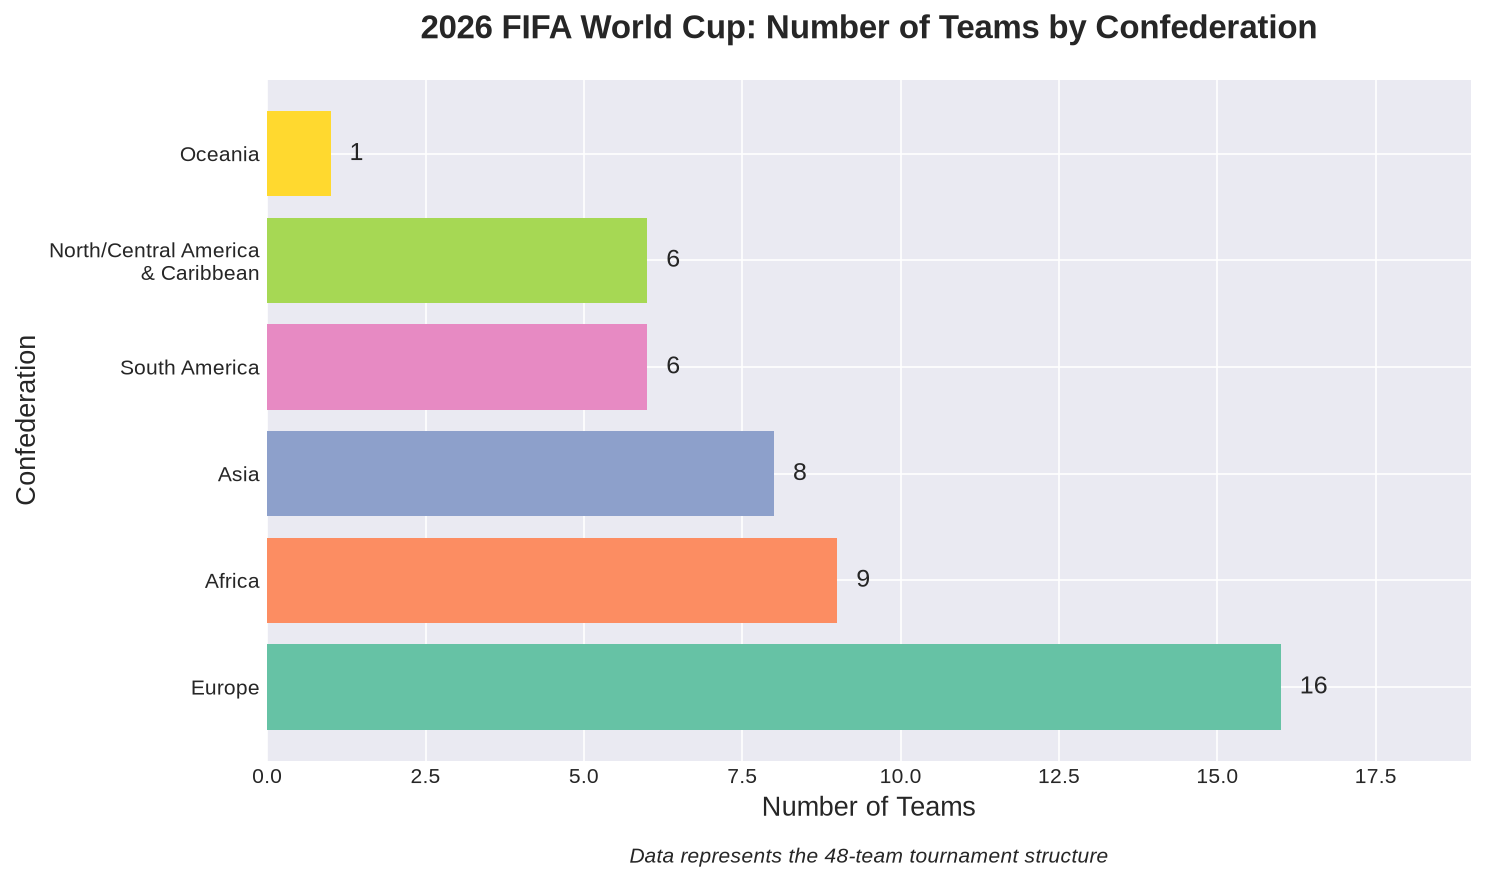
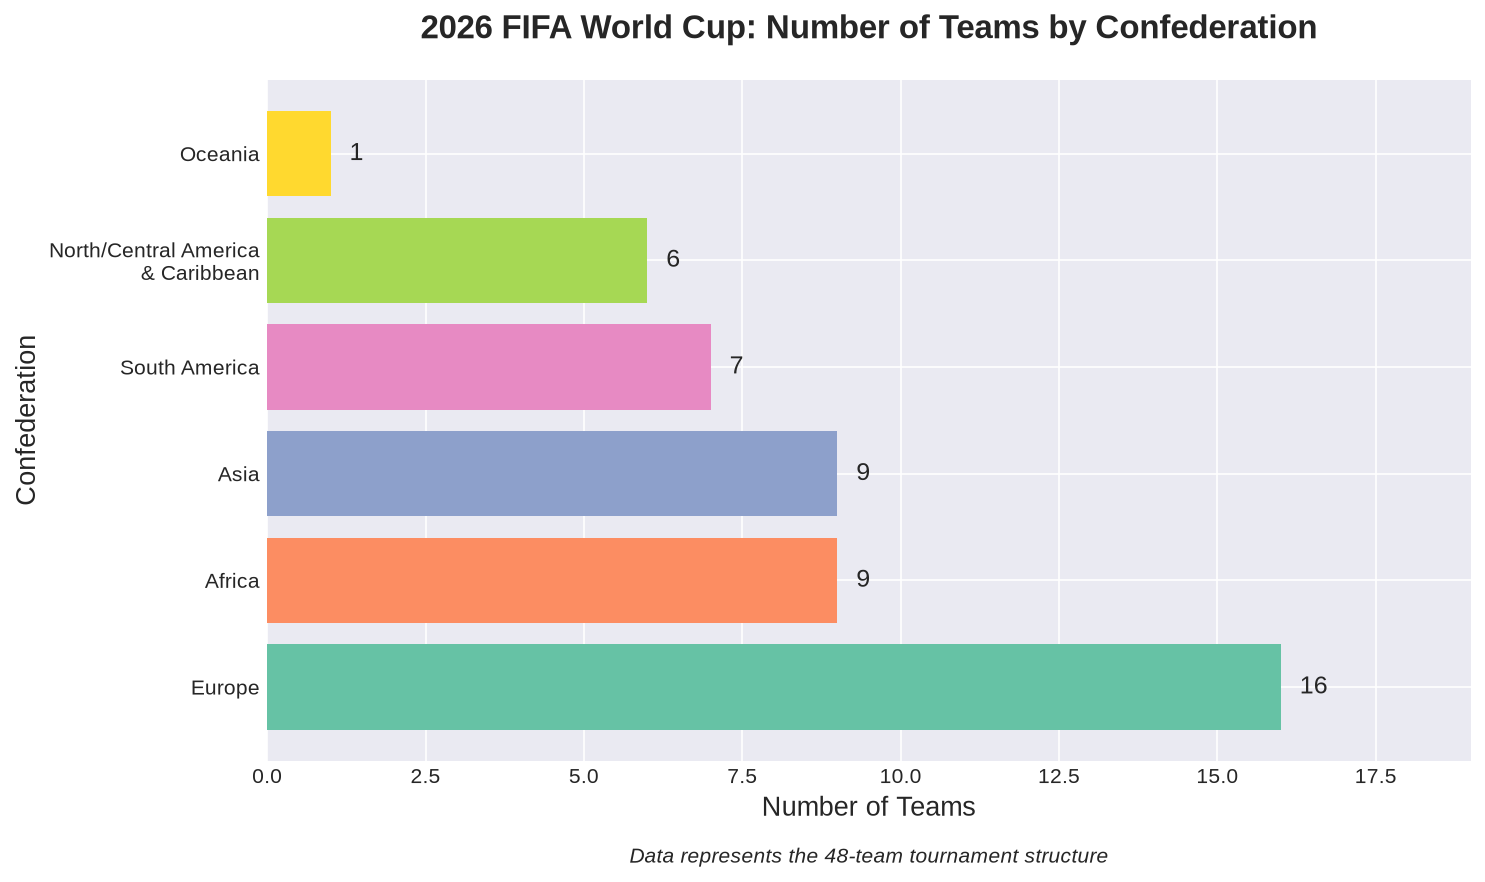
Fix team count to 48 and clarify 2024 FIFA ranking data

Changed region(s): [[0.4956, 0.4898, 0.5886, 0.6122], [0.4337, 0.3673, 0.4956, 0.4898]]

diff --git a/world_cup_analysis.md b/world_cup_analysis.md
@@ -24,12 +24,14 @@ library(countrycode)
 
 We'll scrape data from Wikipedia about the 2026 FIFA World Cup
 participating countries and combine it with FIFA rankings and
-confederation information.
+confederation information. The FIFA rankings used are from 2024
+(historical data for this 2026 analysis).
 
 ``` r
 # Since the 2026 World Cup qualification is ongoing, we'll create a dataset
 # based on the qualified teams and confederations
 # As of the data collection, we'll use the tournament structure information
+# Note: FIFA rankings are from 2024 (historical baseline data)
 
 # Create a dataset of participating confederations and their allocations
 world_cup_data <- tibble(
@@ -69,6 +71,8 @@ participating_countries <- tibble(
     "Egypt", "Cameroon", "Ghana", "Ivory Coast",
     # CONCACAF (additional) - 3 more slots
     "Costa Rica", "Jamaica", "Panama",
+    # Intercontinental playoff qualifiers - 2 slots
+    "United Arab Emirates", "Peru",
     # OFC (Oceania) - 1 slot
     "New Zealand"
   ),
@@ -79,6 +83,7 @@ participating_countries <- tibble(
     rep("AFC", 8),
     rep("CAF", 9),
     rep("CONCACAF", 3),
+    "AFC", "CONMEBOL",
     rep("OFC", 1)
   ),
   fifa_ranking_2024 = c(
@@ -94,6 +99,8 @@ participating_countries <- tibble(
     20, 13, 28, 32, 42, 36, 51, 58, 39,
     # CONCACAF additional
     52, 54, 50,
+    # Playoff qualifiers
+    68, 31,
     # OFC
     95
   ),
@@ -110,6 +117,8 @@ participating_countries <- tibble(
     3, 6, 6, 4, 7, 3, 8, 4, 3,
     # CONCACAF additional
     6, 2, 4,
+    # Playoff qualifiers
+    1, 6,
     # OFC
     2
   )
@@ -148,9 +157,9 @@ kable(confederation_summary,
 | Confederation                       | Teams | Avg FIFA Rank | Avg WC Apps | Best Rank | Worst Rank |
 |:------------------------------------|------:|--------------:|------------:|----------:|-----------:|
 | Europe                              |    16 |          13.1 |        11.6 |         2 |         33 |
+| Asia                                |     9 |          43.8 |         5.2 |        17 |         87 |
 | Africa                              |     9 |          35.4 |         4.9 |        13 |         58 |
-| Asia                                |     8 |          42.2 |         5.5 |        17 |         87 |
-| South America                       |     6 |          15.0 |        12.5 |         1 |         30 |
+| South America                       |     7 |          16.7 |        11.4 |         1 |         31 |
 | North/Central America & Caribbean   |     6 |          30.2 |         7.5 |        11 |         54 |
 | Oceania                             |     1 |          95.0 |         2.0 |        95 |         95 |
 
@@ -336,8 +345,8 @@ cat("- Most World Cup appearances:",
 ```
 
     Key Statistics:
-    - Total participating teams: 46 
-    - European teams (UEFA): 16 (34.8%) 
+    - Total participating teams: 48 
+    - European teams (UEFA): 16 (33.3%) 
     - Host nations: 3 (USA, Mexico, Canada)
     - Highest ranked team: Argentina 
     - Most World Cup appearances: Brazil with 22 appearances
